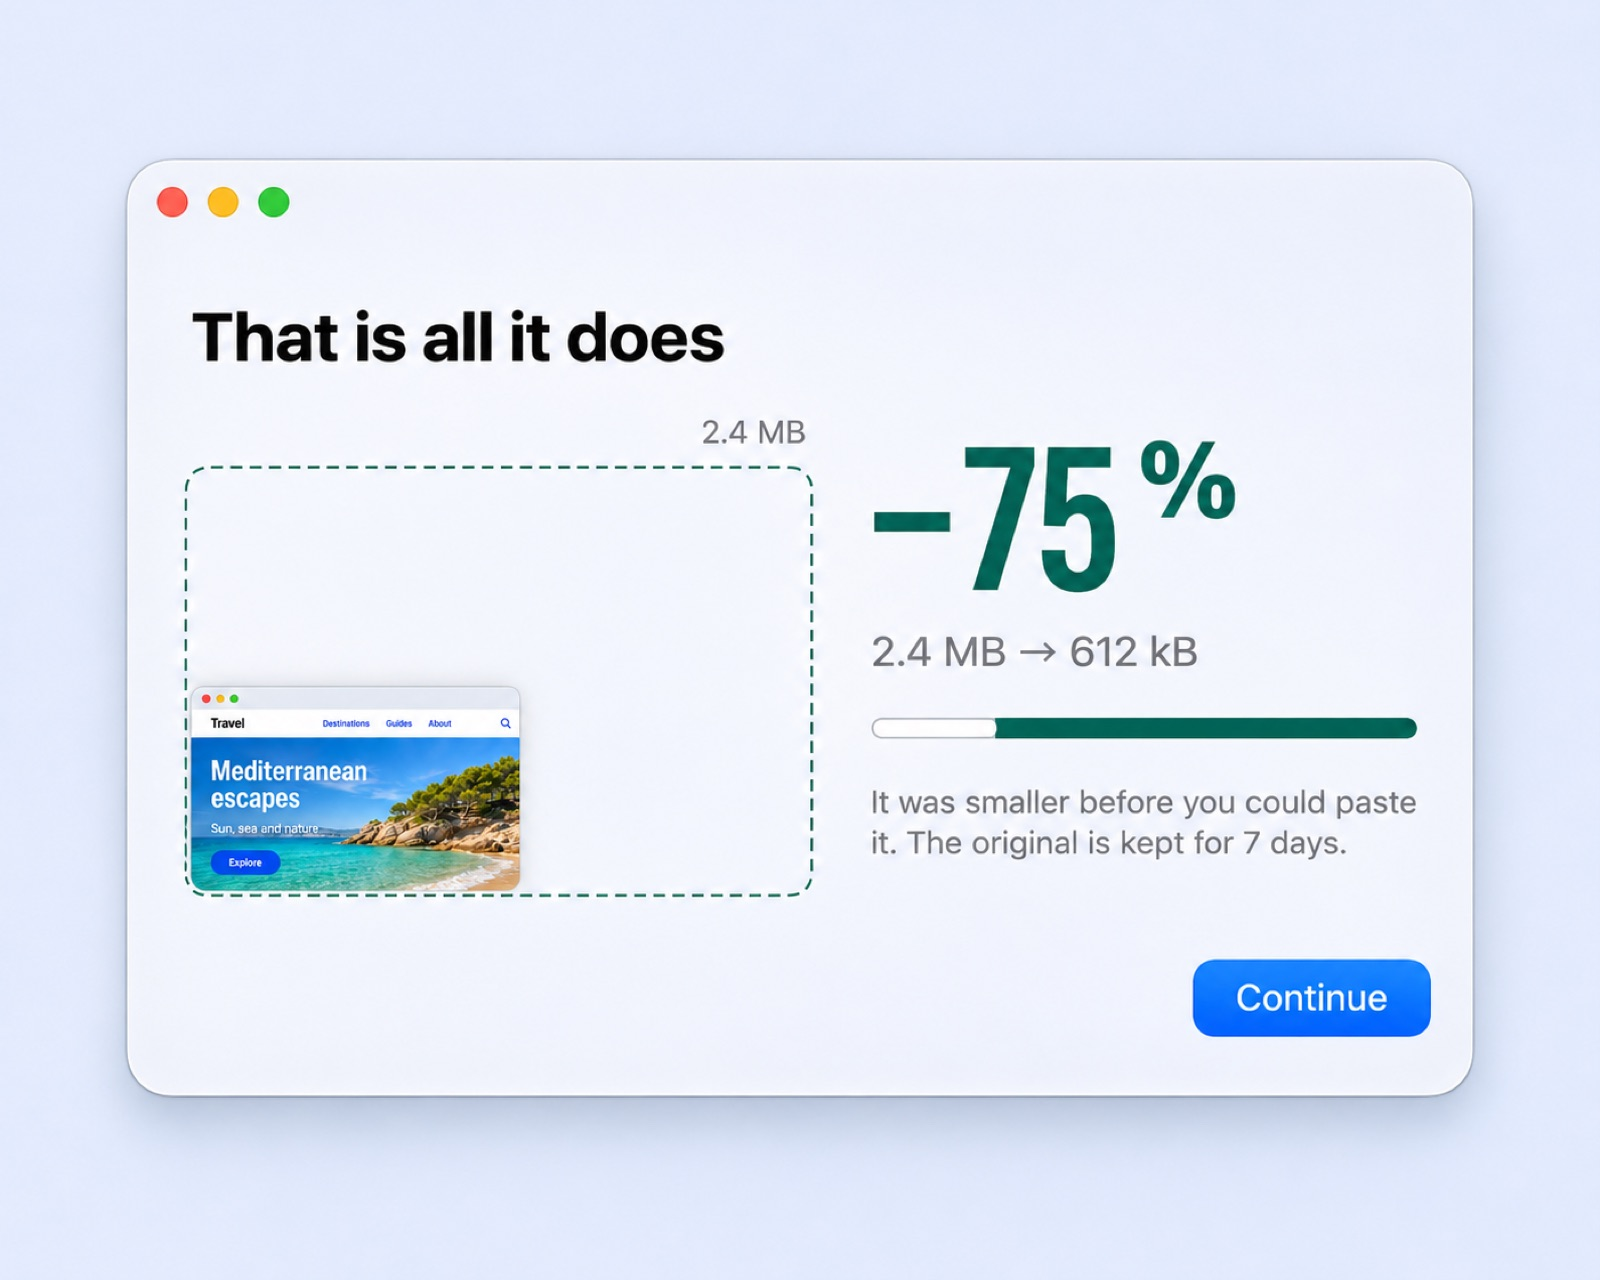
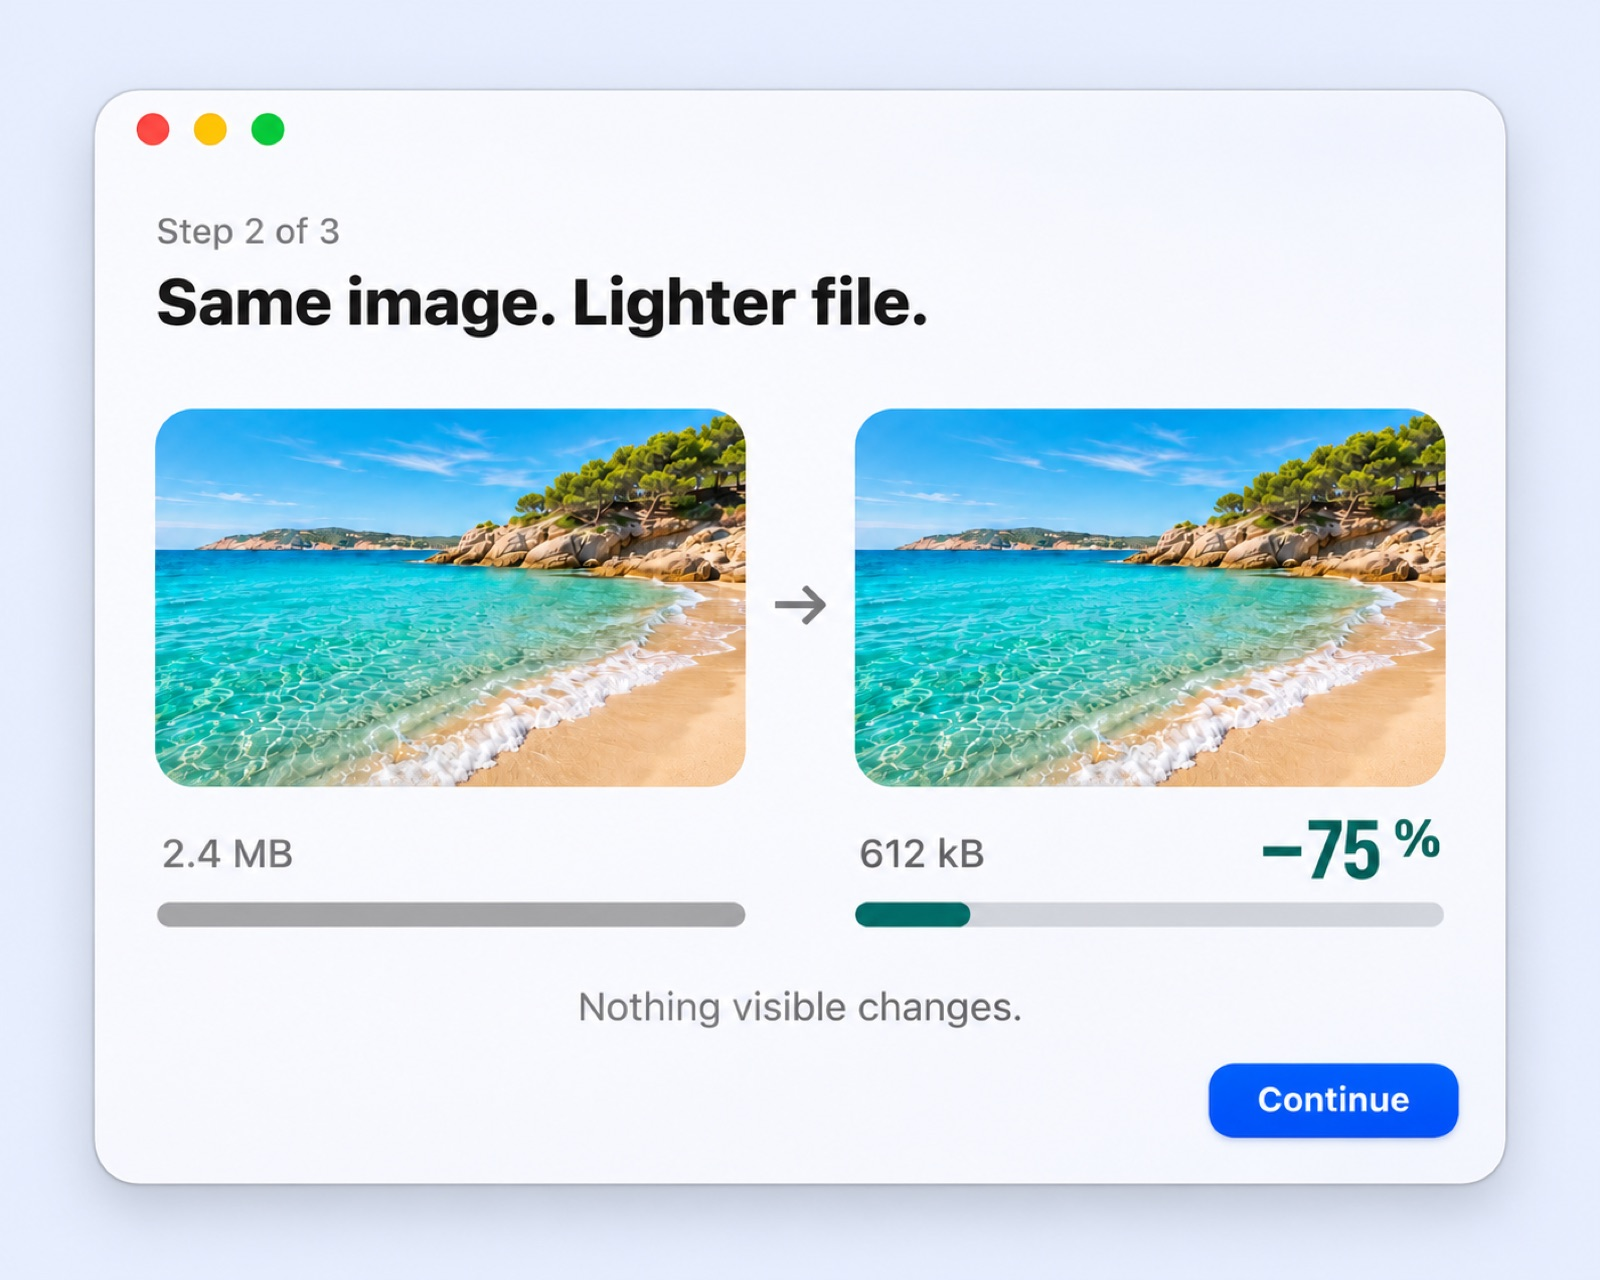
Update the visual targets with the owner's ranking

diff --git a/docs/design/targets/README.md b/docs/design/targets/README.md
@@ -1,18 +1,37 @@
 # Visual targets
 
 Generated mockups of the look the build should reach, one or more per build PR. They borrow the
-visual language of public UI work by @uiuxjosh on X, applied to our own surfaces, and were
-refined by a design council (craft, spec, spark) over three rounds against `../proposal.md`.
+visual language of public UI work by @uiuxjosh on X, applied to our own surfaces, refined by a
+design council and then ranked and annotated by the owner.
 
-They are targets for the look, not specs. Where one disagrees with `../proposal.md`, the proposal
-wins. Pictures, filenames, dates and sizes are filler. Known disagreements:
+They set the look. Where one disagrees with `../proposal.md`, the proposal wins, **except for the
+owner's decisions below, which win over both**. Pictures, filenames, dates and sizes are filler.
+
+## Owner's decisions (2026-11-13)
+
+- **Result card actions depend on where the file came from:** a copied screenshot and a dragged
+  file get different actions (`pr2-result-card-contextual`). Draw them as icons, and choose them
+  for what the person most likely wants next.
+- **No blue focus outline on the card;** on hover a halo in the picture's tone that grows brighter
+  near the pointer (`pr2-result-card-hover-halo`).
+- **Failures:** the grouped pill expands into the list, with the reason and Retry on each
+  (`pr2-failed-expanded`).
+- **Compare is a loupe:** original and optimised swap on click, and also while the mouse button is
+  held. Offer it only when the loss is visible (lossy formats) (`pr6-compare-loupe`).
+- **First run is three steps** (`pr8-first-run-step1..3`). Never show compression as the image
+  getting smaller: it is the same image, lighter.
+- **Pipelines** as in `pr9-pipeline-editor`.
+- **Settings** (`pr7-settings`) is the direction, but needs more hierarchy: too many equal blocks.
+- **The menu-bar glyph stays the existing one;** no glyph-state sheet. **No paused state in the
+  menu panel.** The panel needs a quick Clear for recent results (privacy).
+- Still open, to be redrawn: the options popover tabs, the menu panel, the saving figure with the
+  original size, the detail card.
+
+## Known disagreements to ignore
 
 - **All:** the generator only approximates SF Pro Compressed; the proposal's type and the
   `saving` teal (#176B59 light, #63D6B8 dark) stand.
 - **pr2-result-card-dark-stack:** the light desktop behind the dark card is wrong; the amber
   stroke is over-saturated.
-- **pr3-glyph-states:** the clog shapes are placeholders; draw the three glyph vectors as the
-  proposal's Menu bar section says.
-- **pr4-options-popover:** the saving figure appears twice (popover header and card); one
-  figure per surface, so the popover header shows sizes only.
+- **pr4-options-popover:** the saving figure appears twice; the popover header shows sizes only.
 - **pr2-failed-not-uploaded:** the Finder thumbnail strip under the failed card is filler.
